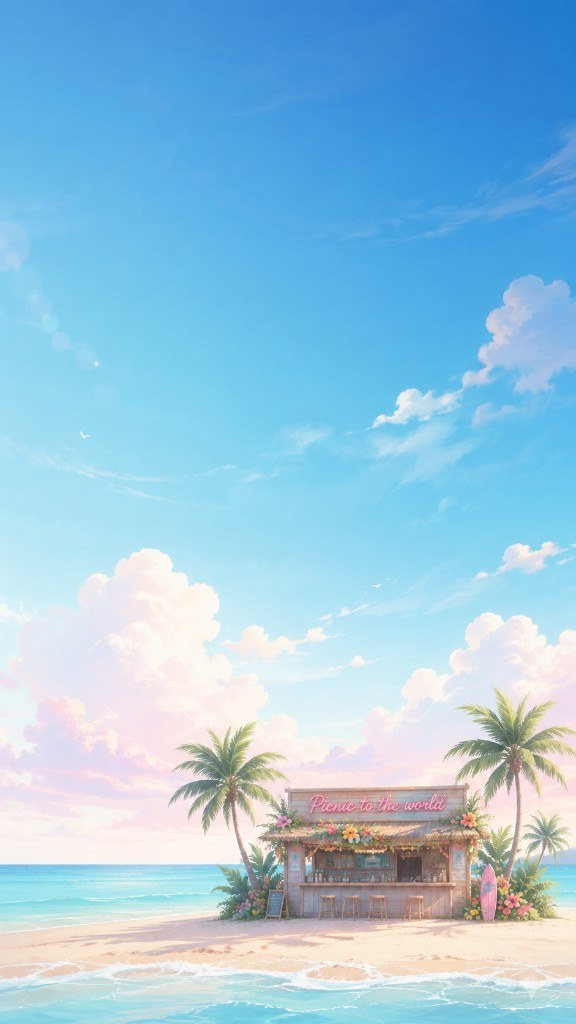
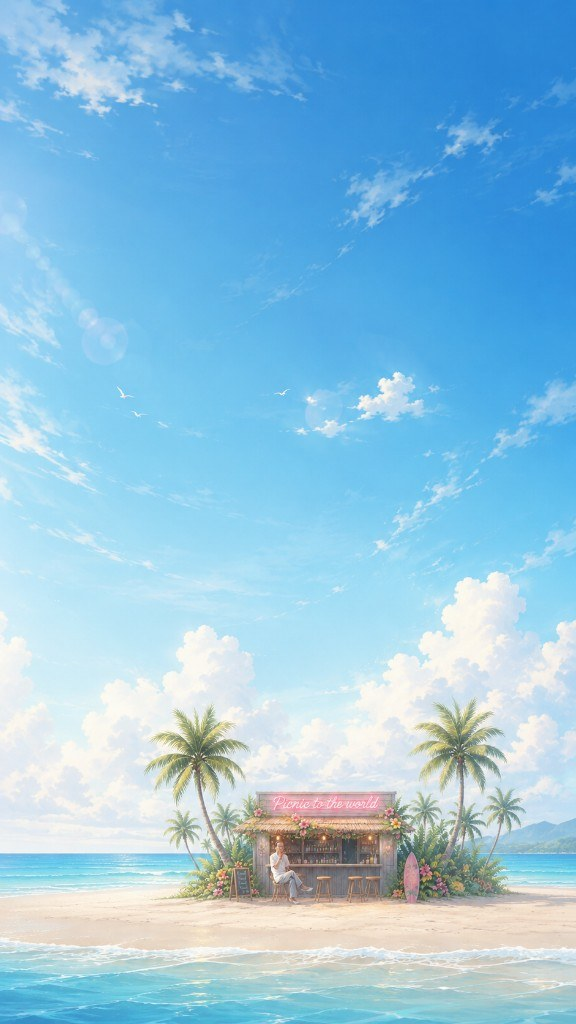
Update menu3 day background and outline foreign labels.
Replace the daytime beach image and add a black stroke on coral i18n text for contrast.

diff --git a/menu3.html b/menu3.html
@@ -5,13 +5,13 @@
   <meta name="viewport" content="width=device-width, initial-scale=1.0" />
   <title>카페귀천 · Menu 3 · Summer</title>
   <meta http-equiv="Cache-Control" content="no-cache, no-store, must-revalidate" />
-  <link rel="stylesheet" href="css/style.css?v=20260805i" />
+  <link rel="stylesheet" href="css/style.css?v=20260805k" />
 </head>
 <body class="summer-page">
   <div class="summer-board" data-page="menu3">
     <img
       class="summer-board__bg"
-      src="images/bg-summer-beach-day.jpg?v=20260805i"
+      src="images/bg-summer-beach-day.jpg?v=20260805k"
       alt=""
       width="576"
       height="1024"
@@ -27,7 +27,7 @@
 
     <img
       class="summer-board__bird"
-      src="images/deco-bird.png?v=20260805i"
+      src="images/deco-bird.png?v=20260805k"
       alt=""
       width="480"
       height="480"
@@ -35,8 +35,8 @@
     />
   </div>
 
-  <script src="js/menu.js?v=20260805i" defer></script>
-  <script src="js/summer-fx.js?v=20260805i" defer></script>
-  <script src="js/refresh.js?v=20260805i" defer></script>
+  <script src="js/menu.js?v=20260805k" defer></script>
+  <script src="js/summer-fx.js?v=20260805k" defer></script>
+  <script src="js/refresh.js?v=20260805k" defer></script>
 </body>
 </html>

diff --git a/css/style.css b/css/style.css
@@ -3075,6 +3075,13 @@ html:has(.summer-page) body {
 
 .summer-sig-list .classic-item__i18n {
   font-size: 0.8em;
+  -webkit-text-stroke: 1px #1a1a1a;
+  paint-order: stroke fill;
+  text-shadow:
+    0.5px 0 0 #1a1a1a,
+    -0.5px 0 0 #1a1a1a,
+    0 0.5px 0 #1a1a1a,
+    0 -0.5px 0 #1a1a1a;
 }
 
 .summer-section--signature .summer-section__title {
@@ -3182,6 +3189,13 @@ html:has(.summer-page) body {
   font-style: normal;
   color: var(--summer-coral);
   line-height: 1.2;
+  -webkit-text-stroke: 1px #1a1a1a;
+  paint-order: stroke fill;
+  text-shadow:
+    0.5px 0 0 #1a1a1a,
+    -0.5px 0 0 #1a1a1a,
+    0 0.5px 0 #1a1a1a,
+    0 -0.5px 0 #1a1a1a;
 }
 
 .summer-list__name .classic-item__lang[lang="zh"],

diff --git a/js/summer-fx.js b/js/summer-fx.js
@@ -6,7 +6,7 @@
 
   const BUBBLE_COUNT = 22;
   const DAY_END_HOUR = 17;
-  const BG_VERSION = "20260805i";
+  const BG_VERSION = "20260805k";
   const BG_DAY = `images/bg-summer-beach-day.jpg?v=${BG_VERSION}`;
   const BG_EVENING = `images/bg-summer-beach.jpg?v=${BG_VERSION}`;
 
